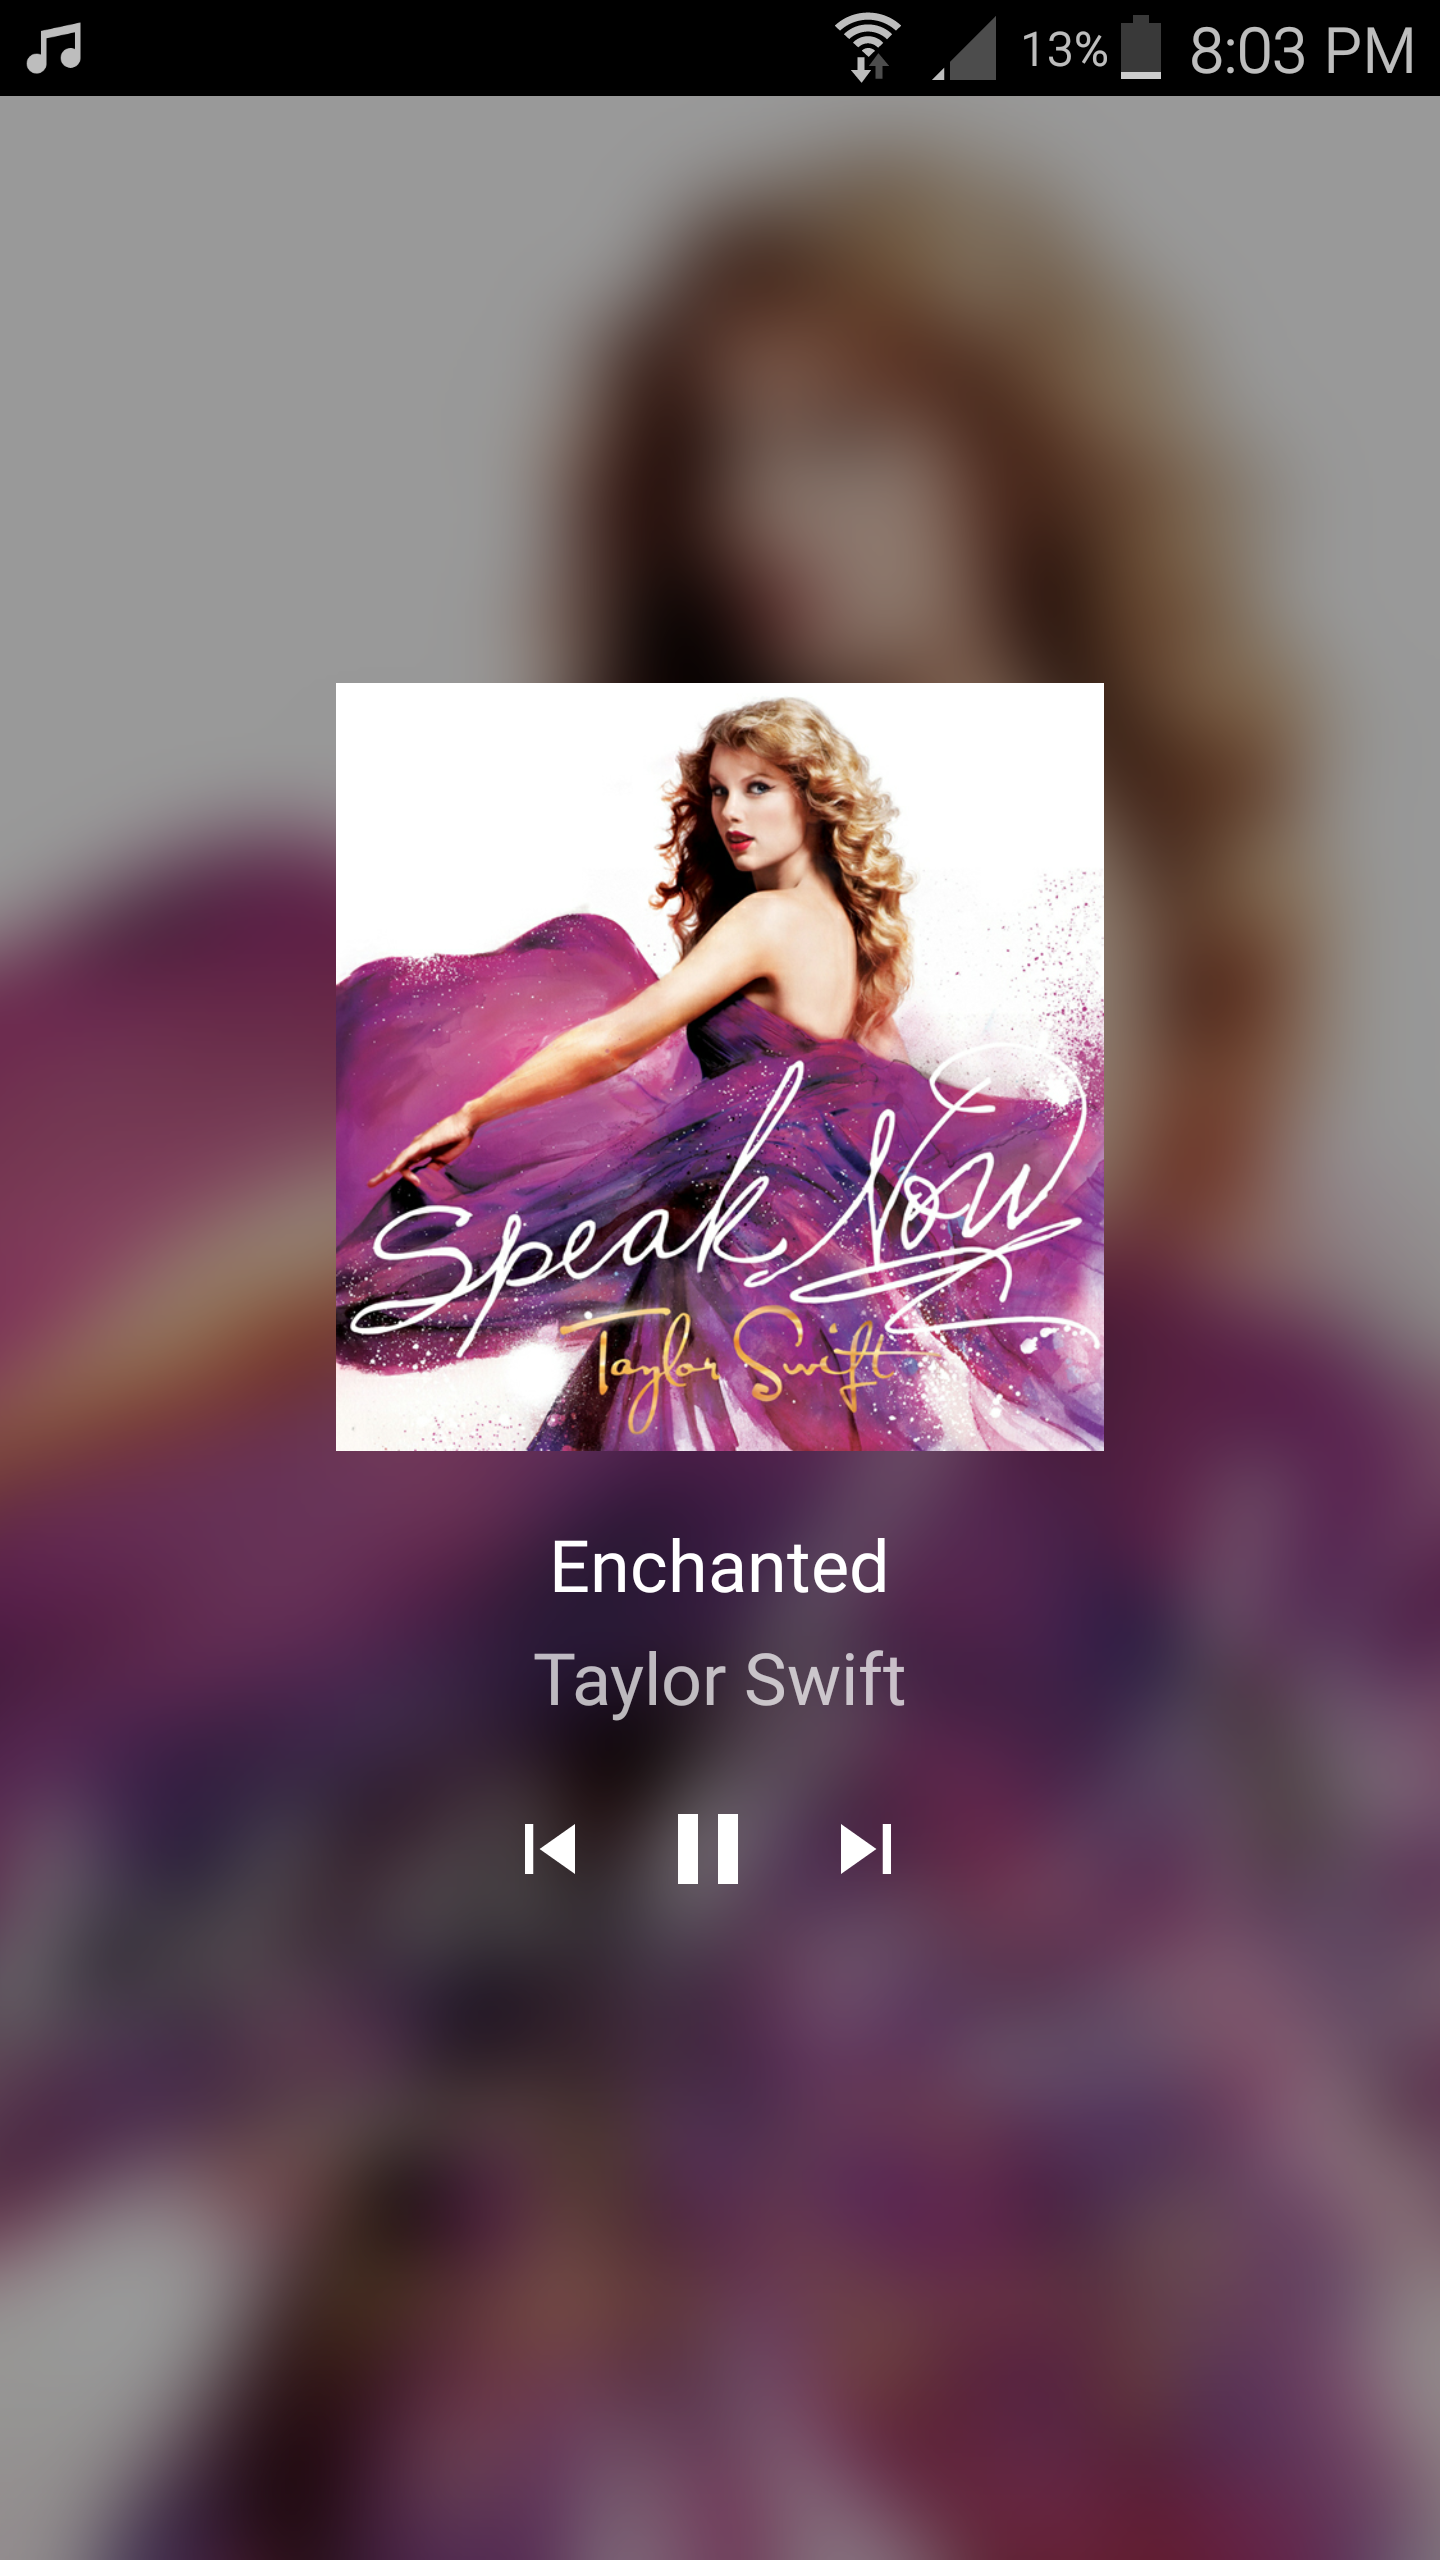
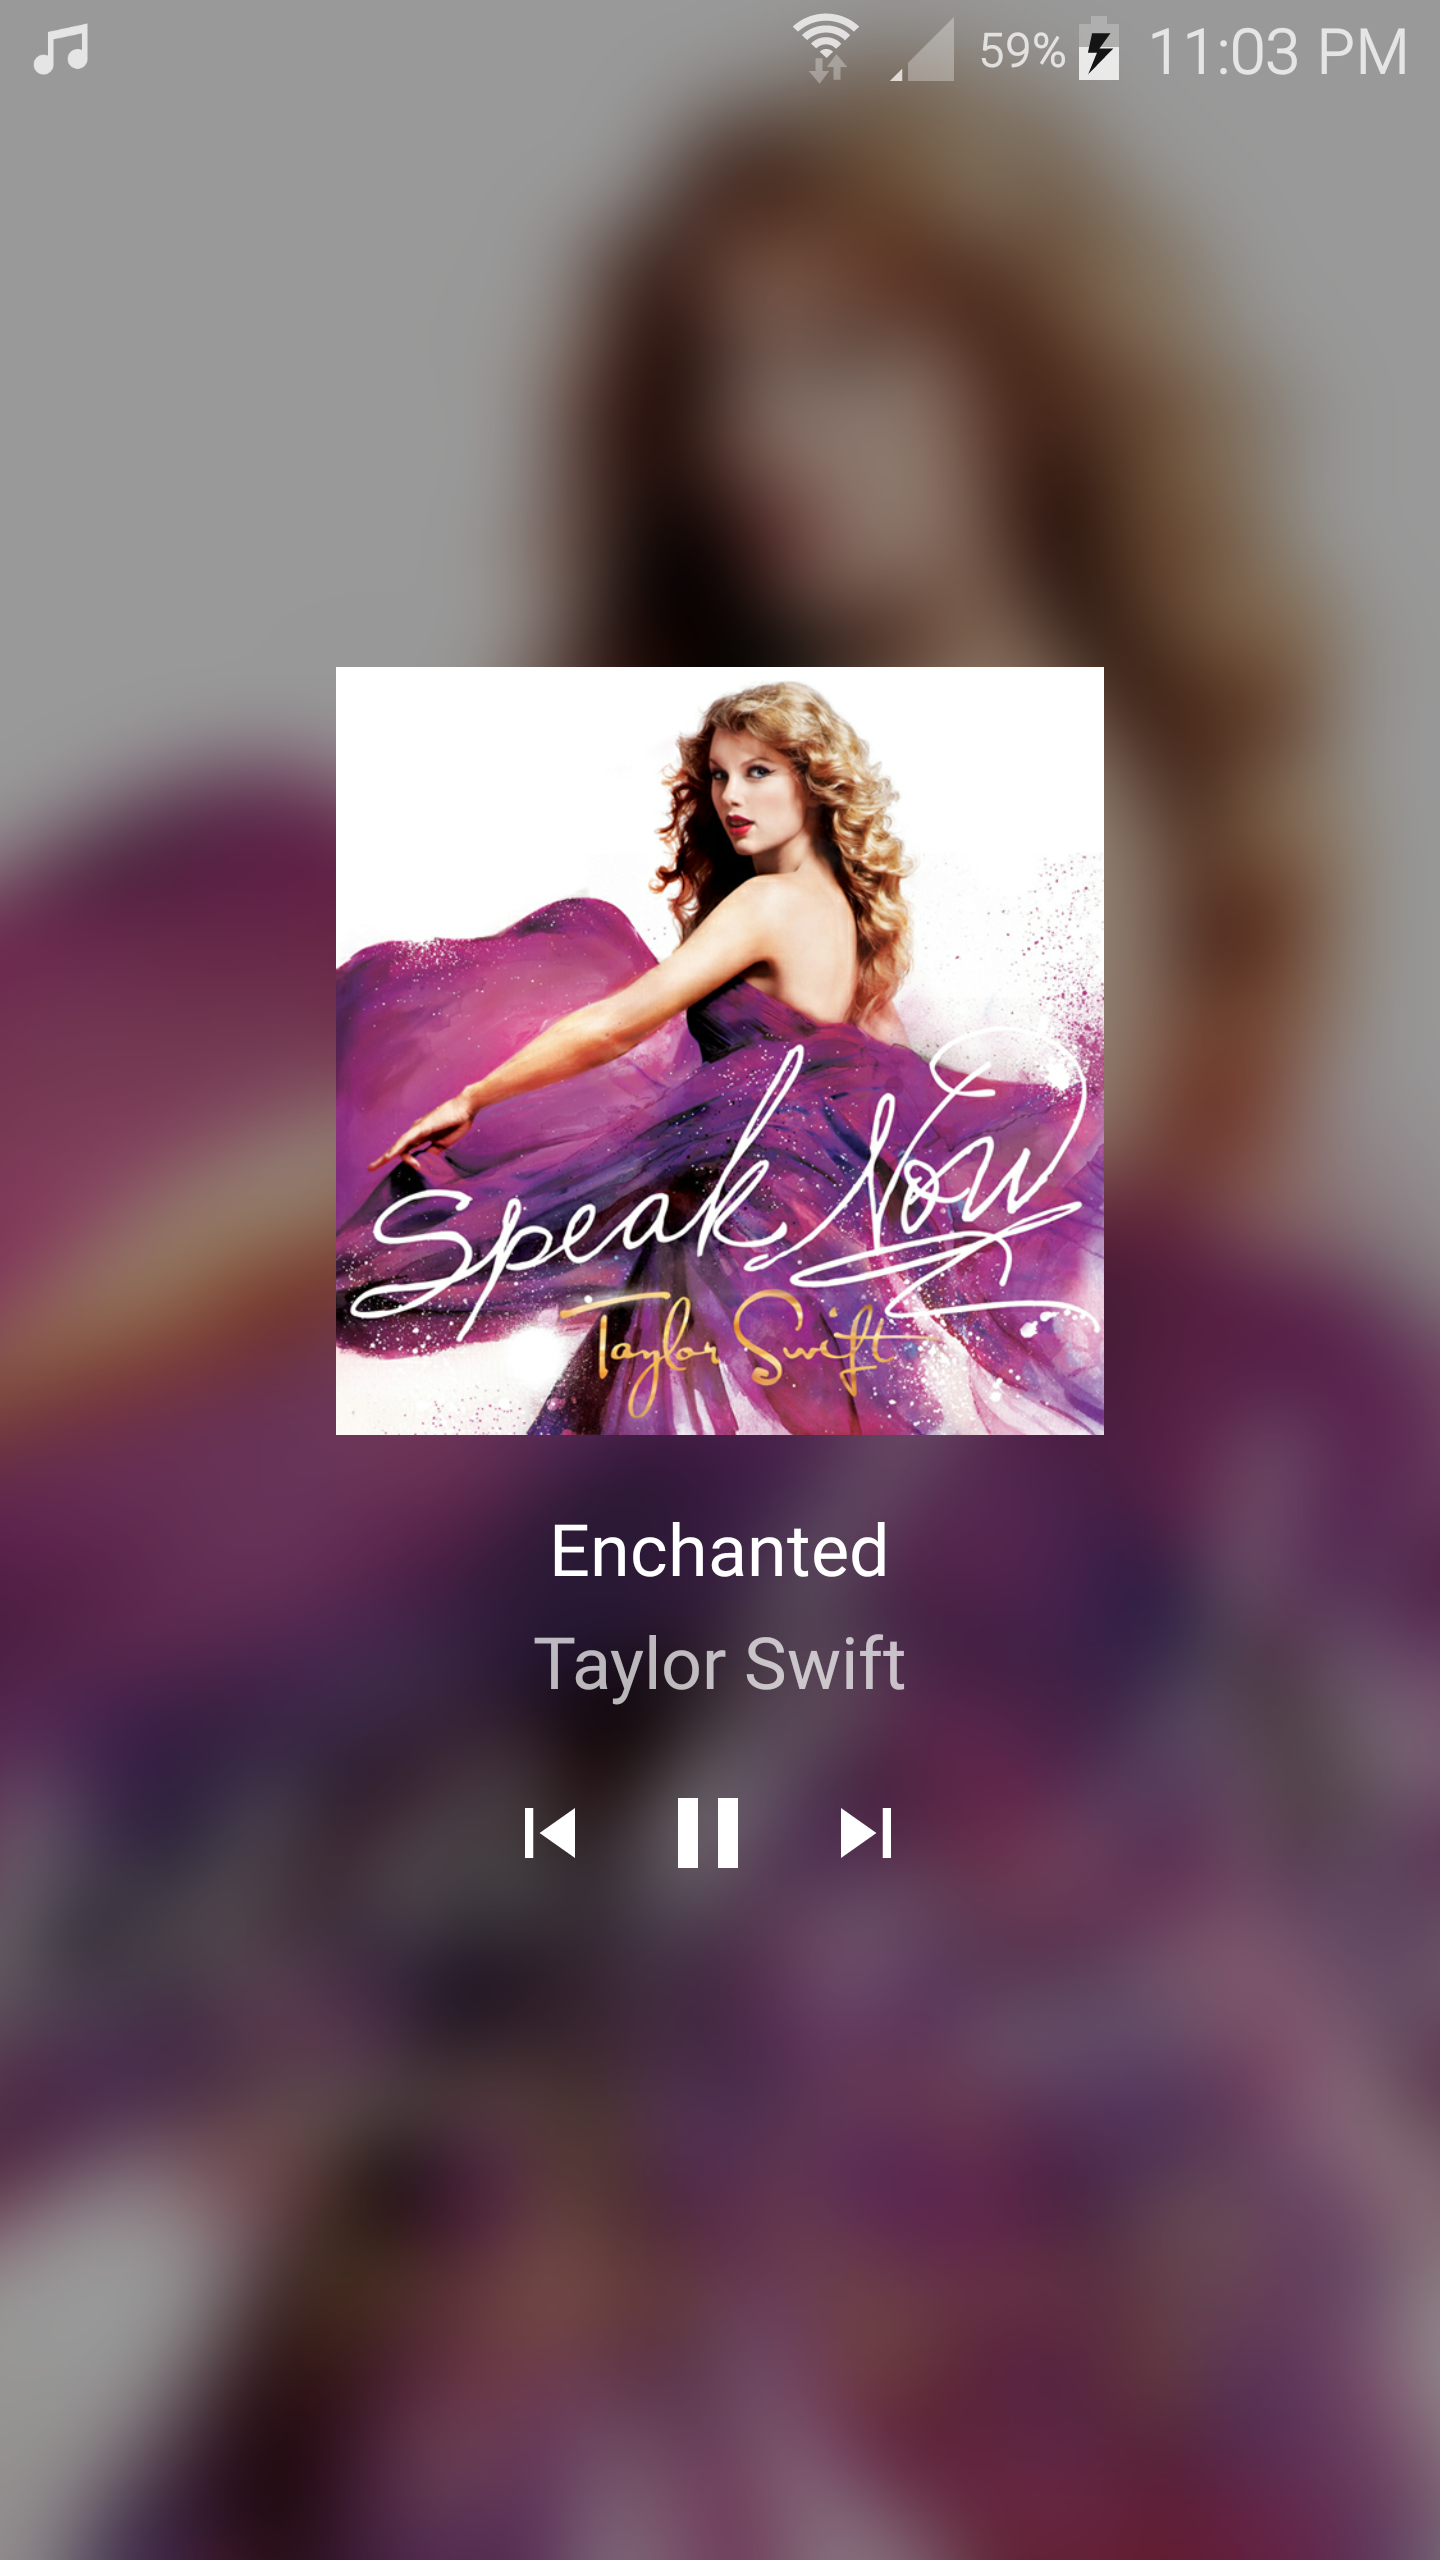
select control for tracks, albums, genres, artists

diff --git a/MusicPlayer/app/src/main/java/gabyshev/denis/musicplayer/player/PlayerActivity.kt b/MusicPlayer/app/src/main/java/gabyshev/denis/musicplayer/player/PlayerActivity.kt
@@ -1,10 +1,20 @@
 package gabyshev.denis.musicplayer.player
 
+import android.app.Activity
+import android.graphics.Color
+import android.graphics.Rect
+import android.os.Build
 import android.os.Bundle
 import android.support.v7.app.AppCompatActivity
+import android.view.View
+import android.view.Window
+import com.readystatesoftware.systembartint.SystemBarTintManager
 import gabyshev.denis.musicplayer.R
 import gabyshev.denis.musicplayer.utils.app
 import javax.inject.Inject
+import android.view.Window.ID_ANDROID_CONTENT
+
+
 
 /**
  * Created by Borya on 24.08.2017.
@@ -19,5 +29,22 @@ class PlayerActivity : AppCompatActivity() {
         app.component.inject(this)
 
         supportFragmentManager.beginTransaction().replace(R.id.fragmentContainer, playerFragment).commit()
+
+        transparentStatusBar(this)
+
+
+    }
+
+    fun transparentStatusBar(activity: Activity) {
+        if (Build.VERSION.SDK_INT >= 21) {
+            activity.window.decorView.systemUiVisibility = View.SYSTEM_UI_FLAG_LAYOUT_STABLE or View.SYSTEM_UI_FLAG_LAYOUT_FULLSCREEN
+            activity.window.statusBarColor = Color.TRANSPARENT
+        }
+
+        val tintManager = SystemBarTintManager(activity)
+        // enable status bar tint
+        tintManager.isStatusBarTintEnabled = true
+        // enable navigation bar tint
+        tintManager.setNavigationBarTintEnabled(true)
     }
 }

diff --git a/MusicPlayer/app/src/main/java/gabyshev/denis/musicplayer/fragments/RecyclerViewSelectAbstract.kt b/MusicPlayer/app/src/main/java/gabyshev/denis/musicplayer/fragments/RecyclerViewSelectAbstract.kt
@@ -3,6 +3,7 @@ package gabyshev.denis.musicplayer.fragments
 import android.content.Context
 import android.support.v7.app.AppCompatActivity
 import android.support.v7.widget.RecyclerView
+import android.util.Log
 import android.view.View
 import android.view.ViewGroup
 import gabyshev.denis.musicplayer.category.Category
@@ -167,6 +168,21 @@ abstract class RecyclerViewSelectAbstract<T : Identifier, K : RecyclerView.ViewH
         selectedObject.add(arrayObject[position])
 
         return false
+    }
+
+    fun backgroundControl(holder: K, position: Int) {
+        TracksHelper.instance().setBackground(context, holder!!.itemView, position)
+
+        if(selectedObject.isNotEmpty()) {
+            val musicId = arrayObject[position].id
+            val background = selectedObject.filter { it.id == musicId }
+
+            if (background.isNotEmpty()) {
+                TracksHelper.instance().setSelectedBackground(context, holder.itemView, position)
+            }
+        }
+
+
     }
 
     fun addSelecting() {

diff --git a/MusicPlayer/app/src/main/java/gabyshev/denis/musicplayer/fragments/albums/AlbumsAdapter.kt b/MusicPlayer/app/src/main/java/gabyshev/denis/musicplayer/fragments/albums/AlbumsAdapter.kt
@@ -42,7 +42,9 @@ class AlbumsAdapter(private val context: Context,
     override fun onBindViewHolder(holder: AlbumHolder, position: Int) {
         holder.setHolder(context, arrayObject[position], position)
 
-       holderAlbumArtistGenre(holder, position, arrayObject[position].album)
+        holderAlbumArtistGenre(holder, position, arrayObject[position].album)
+
+        backgroundControl(holder, position)
     }
 
 }

diff --git a/MusicPlayer/app/src/main/java/gabyshev/denis/musicplayer/fragments/genres/GenresAdapter.kt b/MusicPlayer/app/src/main/java/gabyshev/denis/musicplayer/fragments/genres/GenresAdapter.kt
@@ -40,6 +40,8 @@ class GenresAdapter(private val context: Context,
         holder.setHolder(context, arrayObject[position], position)
 
         holderAlbumArtistGenre(holder, position, arrayObject[position].name)
+
+        backgroundControl(holder, position)
     }
 
     override fun getItemCount(): Int = arrayObject.size

diff --git a/MusicPlayer/app/src/main/java/gabyshev/denis/musicplayer/fragments/tracks/TracksAdapter.kt b/MusicPlayer/app/src/main/java/gabyshev/denis/musicplayer/fragments/tracks/TracksAdapter.kt
@@ -44,5 +44,7 @@ class TracksAdapter(private val context: Context,
         holder.bindTracksHolder(context, arrayTracks[position], position)
 
         holderTracks(holder, position, {PlayTrack.playTrack(context, arrayTracks, musicPlayer, position)})
+
+        backgroundControl(holder, position)
     }
 }

diff --git a/MusicPlayer/app/src/main/java/gabyshev/denis/musicplayer/fragments/artists/ArtistsAdapter.kt b/MusicPlayer/app/src/main/java/gabyshev/denis/musicplayer/fragments/artists/ArtistsAdapter.kt
@@ -44,5 +44,7 @@ class ArtistsAdapter(private val context: Context,
         holder.setHolder(context, arrayObject[position], position)
 
         holderAlbumArtistGenre(holder, position, arrayObject[position].artist)
+
+        backgroundControl(holder, position)
     }
 }

diff --git a/MusicPlayer/app/src/main/java/gabyshev/denis/musicplayer/fragments/playlists/PlaylistsAdapter.kt b/MusicPlayer/app/src/main/java/gabyshev/denis/musicplayer/fragments/playlists/PlaylistsAdapter.kt
@@ -49,6 +49,8 @@ class PlaylistsAdapter(private val context: Context, private var playlistsArray:
 
             context.startActivity(intent)
         }
+
+
     }
 
     override fun getItemCount(): Int = playlistsArray.size

diff --git a/README.md b/README.md
@@ -8,7 +8,7 @@ Media player app written on Kotlin. Used libraries for connecting activity and s
 Features
 -----
 
-Player Notification
+Player Notification  | Notification (Virtual Device)
 :-------------------------:|:-------------------------:
 ![](https://raw.githubusercontent.com/dns21395/MusicPlayer/master/ReadmeFiles/notification.png)  |  ![](https://raw.githubusercontent.com/dns21395/MusicPlayer/master/ReadmeFiles/notification2.png)
 
